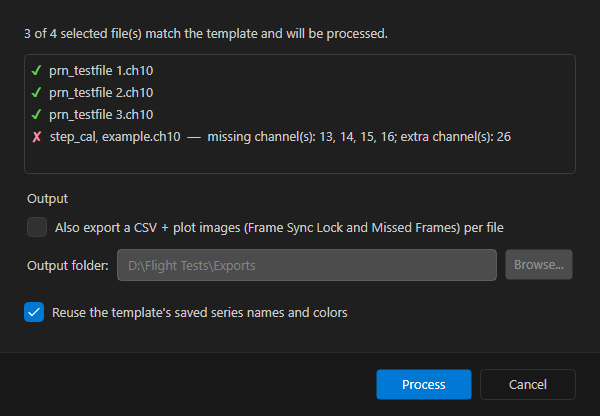
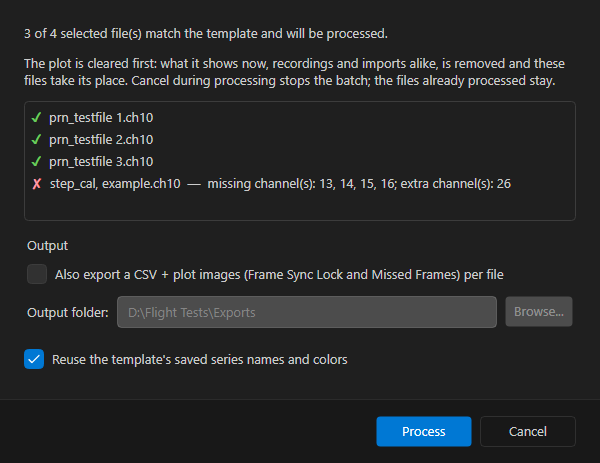
chore(eng): scripts that could report a run that did not happen; the batch confirmation's figure

diff --git a/docs/changelog.md b/docs/changelog.md
@@ -12,6 +12,19 @@ recorded here; and the parity review and soak records moved from `docs/dotnet-mi
 
 ### Unreleased
 
+#### Scripts that could report a run that did not happen (v3.5.1, PR 2)
+
+From the sweep:
+- **`eng\build_manual.ps1`** deleted the tracked figures before it checked that the core was built and the tests compiled, so a failed run left them gone; it checks first now, clears the variables it set in a `finally`, and runs the embedder from the repository's root (`eng\embed_manual_images.py` reads relative paths, so started from another folder it failed or wrote another checkout's manual; `deploy\build_package.ps1` reaches it through this script).
+- **`eng\run_soak.ps1`** called a run "same" whenever the test exited 0, even if no result was written (a renamed class, a filter that matched nothing); it deletes the last run's `result.json` first and calls a run with none "NOT RUN", a failure.
+- **`deploy\sandbox\run_sandbox_test.ps1`** could find the last run's `results.txt` (left by a delete that a Sandbox window blocked) and report it at once as this run's; it stops and says why instead.
+- **`deploy\build_msi.ps1`** read its WiX version from a literal beside a comment saying it matched `dotnet-tools.json`; it reads it from there.
+- **Comments:** `build_package.ps1` called the MSI per-machine (it is per-user or per-machine since #412); `test_dotnet.ps1` gave the library a DLL search that is the tests' (`Support\Env.cs`).
+
+**The figures:** `build_manual.ps1` (full) re-rendered `walk-batch-02-apply-dialog.png` for the batch confirmation's new note. Five other figures came out different only in run-to-run noise and were put back: the run log's time-gated "NN% read" lines in three (21/41/61/81 % one run, 21/51/81 % the next) and a checkbox edge in the two Customize View figures. The progress lines were thought steady since #296; that they are not is for PR 3's flake hunt.
+
+Checked: PSScriptAnalyzer clean; `build_manual.ps1` run in full and with `-NoCapture` after the change.
+
 #### The core's leftovers from the sweep (v3.5.1, PR 2)
 
 No behaviour changed:
